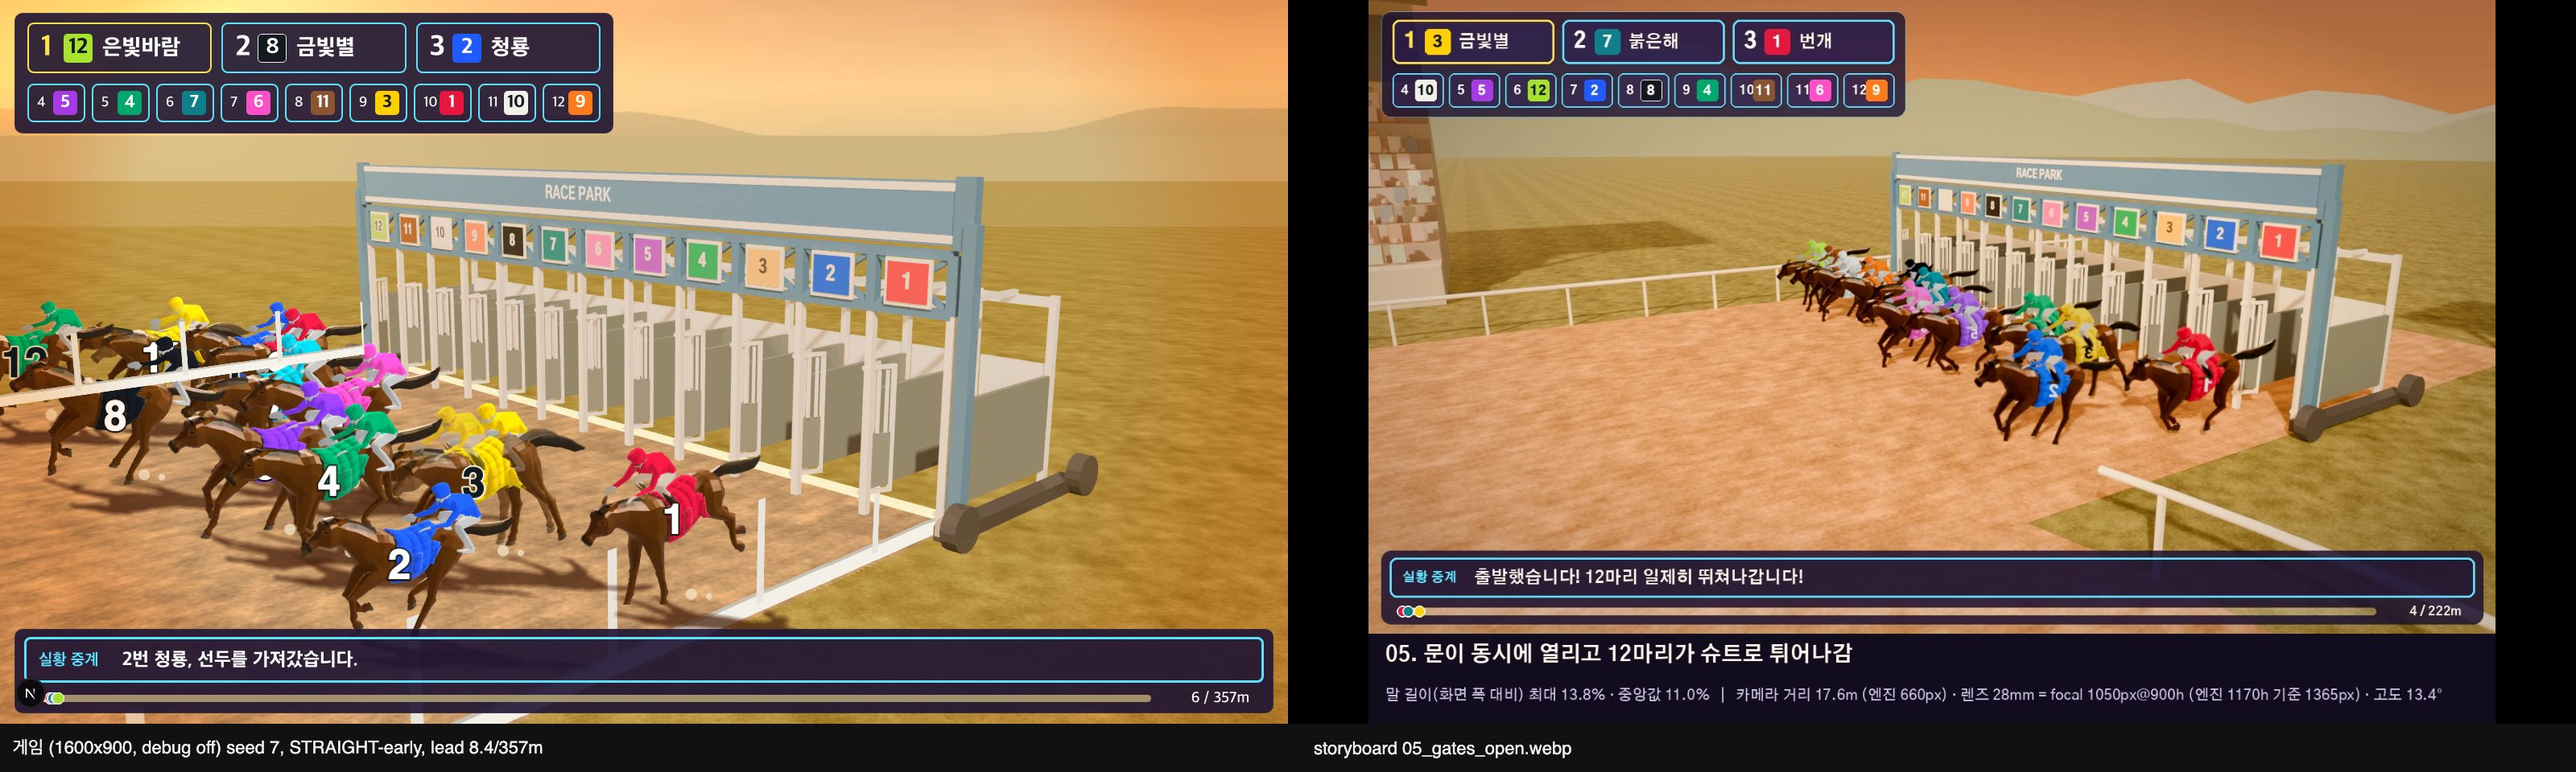
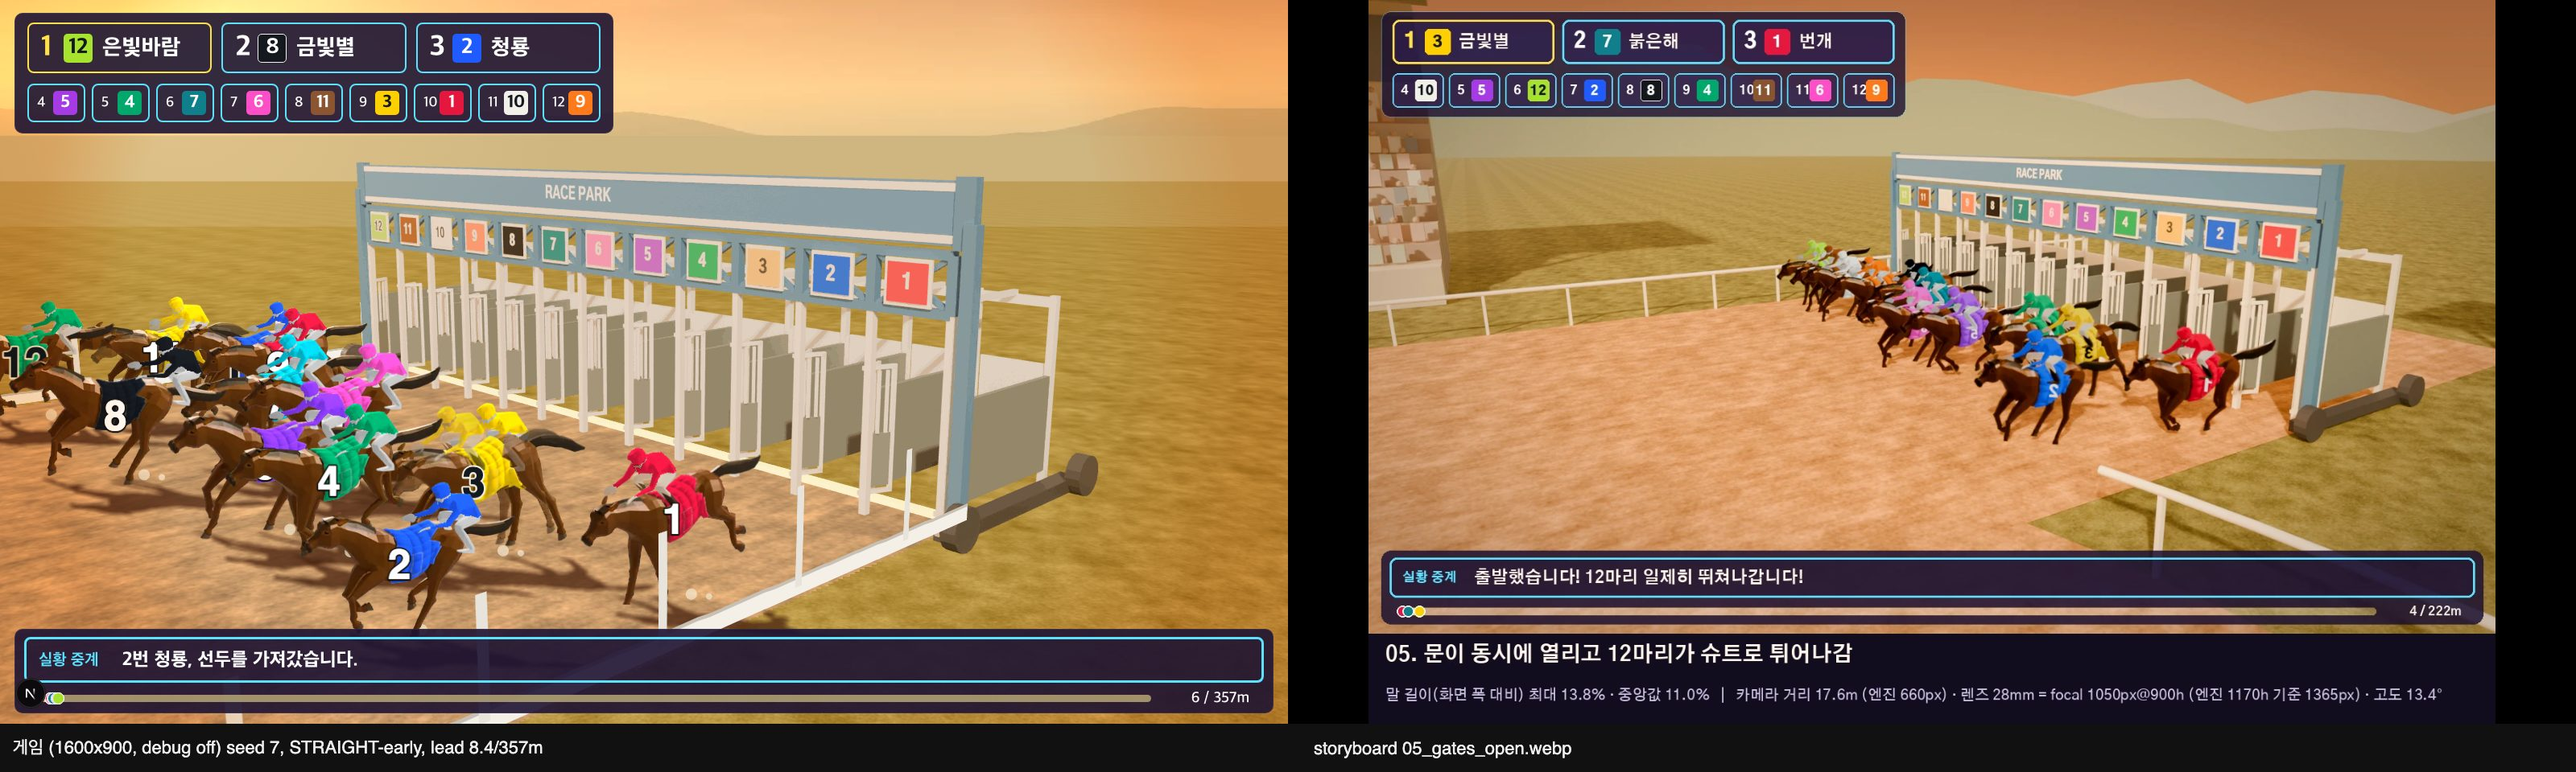
fix(rails): 슈트 합류부 코너 레일 제거, 말 뒤 펜스가 말 위에 그려지는 문제
- 서쪽 코너 바깥 레일이 슈트를 가로지르던 구간을 끊고, 슈트 안쪽 레일은 두 레일이 만나는 지점(chuteMergeX)부터 시작
- 레일 앞뒤를 반경(안쪽=뒤, 바깥=앞) 고정에서 세그먼트별 판정(railSegmentInFront)으로: 카메라와 말 사이에 있는 레일만 말 위에
- 테스트: 어느 레인도 레일을 가로지르지 않음, 합류부 슈트 안에 레일 없음, 카메라 위치별 앞뒤 판정
- taskA 캡처 갱신

diff --git a/game/trackRenderer.ts b/game/trackRenderer.ts
@@ -12,17 +12,16 @@ import type { Rect } from "./stage";
 import { sceneryFaces } from "./scenery";
 import { finishGoalX, presentationOnRadius, type Camera } from "./track";
 import {
-  chutePolyline,
   farRailRadius,
   finishCheckerQuad,
   groundUv,
   isDirt,
-  nearRailRadius,
-  ovalPolyline,
   projectHeight,
   propSpriteAccepted,
   propStripAccepted,
   mainStandLine,
+  railLines,
+  railSegmentInFront,
   startLineQuad,
   unprojectCell,
   type Vec2,
@@ -37,9 +36,9 @@ const DEPTH = {
   stands: 33,
   scenery: 34,
   checker: 35,
-  farRail: 40,
+  backRail: 40,
   props: 55,
-  nearRail: 3500,
+  frontRail: 3500,
 } as const;
 
 const GROUND_CELL = 48;
@@ -89,8 +88,8 @@ export function createTrackRenderer(scene: Phaser.Scene) {
   const turf = makeMesh(scene, fieldKey, DEPTH.turf);
   const dirt = makeMesh(scene, "ground-dirt", DEPTH.dirt);
   const fog = scene.add.graphics().setDepth(DEPTH.fog);
-  const farRail = makeMesh(scene, "rail-segment", DEPTH.farRail);
-  const nearRail = makeMesh(scene, "rail-segment", DEPTH.nearRail);
+  const backRail = makeMesh(scene, "rail-segment", DEPTH.backRail);
+  const frontRail = makeMesh(scene, "rail-segment", DEPTH.frontRail);
   const stands = makeMesh(scene, "stands-strip", DEPTH.stands);
   stands.mesh.setAlpha(1).setBlendMode(Phaser.BlendModes.NORMAL);
   const scenery = scene.add.graphics().setDepth(DEPTH.scenery);
@@ -98,10 +97,7 @@ export function createTrackRenderer(scene: Phaser.Scene) {
   const checker = makeMesh(scene, "finish-checker", DEPTH.checker);
   const startLine = scene.add.graphics().setDepth(DEPTH.checker);
 
-  const farLoop = ovalPolyline(farRailRadius());
-  const nearLoop = ovalPolyline(nearRailRadius());
-  const farChute = chutePolyline(farRailRadius());
-  const nearChute = chutePolyline(nearRailRadius());
+  const rails = railLines();
   const postProgress = distancePostProgresses();
   const posts = postProgress.map(() =>
     scene.add.image(0, 0, "prop-distance").setOrigin(0.5, 1).setDepth(DEPTH.props).setVisible(false),
@@ -118,12 +114,12 @@ export function createTrackRenderer(scene: Phaser.Scene) {
     if (capBottom > area.y) skyCap.setPosition(area.x, area.y).setSize(area.width, capBottom - area.y);
     paintGround(camera, turf, dirt, area);
     paintFog(fog, camera, area, haze);
-    clearSlot(farRail);
-    clearSlot(nearRail);
-    paintVertical(farRail, farLoop, true, RAIL_IMAGE, 1, camera, null);
-    paintVertical(farRail, farChute, false, RAIL_IMAGE, 1, camera, null);
-    paintVertical(nearRail, nearLoop, true, RAIL_IMAGE, 1, camera, null);
-    paintVertical(nearRail, nearChute, false, RAIL_IMAGE, 1, camera, null);
+    clearSlot(backRail);
+    clearSlot(frontRail);
+    for (const rail of rails) {
+      paintVertical(backRail, rail.points, rail.closed, RAIL_IMAGE, 1, camera, null, (from, to) => !railSegmentInFront(rail.kind, from, to, camera));
+      paintVertical(frontRail, rail.points, rail.closed, RAIL_IMAGE, 1, camera, null, (from, to) => railSegmentInFront(rail.kind, from, to, camera));
+    }
 
     clearSlot(stands);
     scenery.clear();
@@ -353,6 +349,7 @@ function paintVertical(
   zScale: number,
   camera: Camera,
   face: "outward" | "inward" | null,
+  keep: (from: Vec2, to: Vec2) => boolean = () => true,
 ) {
   const above = (image.contact / image.pxPerM) * zScale * LOGICAL_PER_METER;
   const below = ((image.height - image.contact) / image.pxPerM) * zScale * LOGICAL_PER_METER;
@@ -364,7 +361,9 @@ function paintVertical(
     const to = points[(index + 1) % count];
     if (!from || !to) continue;
     const lengthM = Math.hypot(to.x - from.x, to.y - from.y) / LOGICAL_PER_METER;
-    emitVertical(slot, camera, from, to, traveled / image.periodM, (traveled + lengthM) / image.periodM, above, below, face);
+    if (keep(from, to)) {
+      emitVertical(slot, camera, from, to, traveled / image.periodM, (traveled + lengthM) / image.periodM, above, below, face);
+    }
     traveled += lengthM;
   }
 }

diff --git a/game/trackLayout.test.ts b/game/trackLayout.test.ts
@@ -1,5 +1,6 @@
 import { describe, expect, test } from "vitest";
 import { farRailRadius, nearRailRadius } from "./artScale";
+import { chuteMergeX, railLines, railSegmentInFront } from "./trackArt";
 import {
   CHUTE,
   CHUTE_M,
@@ -85,5 +86,74 @@ describe("closed lap", () => {
     expect(home.y).toBeGreaterThan(0);
     expect(home.x).toBeCloseTo(finishGoalX(), 3);
     expect(home.tx).toBeCloseTo(1, 5);
+  });
+});
+
+type Point = { x: number; y: number };
+
+function crosses(a: Point, b: Point, c: Point, d: Point) {
+  const side = (p: Point, q: Point, r: Point) => (q.x - p.x) * (r.y - p.y) - (q.y - p.y) * (r.x - p.x);
+  return side(a, b, c) * side(a, b, d) < 0 && side(c, d, a) * side(c, d, b) < 0;
+}
+
+function railSegments() {
+  return railLines().flatMap((rail) => {
+    const count = rail.closed ? rail.points.length : rail.points.length - 1;
+    return Array.from({ length: count }, (_, index) => ({
+      kind: rail.kind,
+      from: rail.points[index]!,
+      to: rail.points[(index + 1) % rail.points.length]!,
+    }));
+  });
+}
+
+describe("rails", () => {
+  test("no lane crosses a rail from the gate, through the chute junction, to the finish", () => {
+    const segments = railSegments();
+    for (const lane of [1, 6, LANE_COUNT]) {
+      let previous = presentationLogical(0, lane);
+      for (let step = 1; step <= 600; step += 1) {
+        const next = presentationLogical(step / 600, lane);
+        const hit = segments.find((segment) => crosses(previous, next, segment.from, segment.to));
+        expect(hit, `lane ${lane} at progress ${(step / 600).toFixed(3)}`).toBeUndefined();
+        previous = next;
+      }
+    }
+  });
+
+  test("the chute opens onto the course where the west bend's outer rail meets the chute's inner rail", () => {
+    const mergeX = chuteMergeX();
+    expect(Math.hypot(mergeX + HALF, farRailRadius())).toBeCloseTo(nearRailRadius(), 6);
+    for (const { from } of railSegments()) {
+      const insideChute = from.x < -HALF && from.y > farRailRadius() + 1 && from.y < nearRailRadius() - 1;
+      expect(insideChute, `rail point (${from.x.toFixed(0)}, ${from.y.toFixed(0)}) inside the chute`).toBe(false);
+    }
+  });
+
+  test("a rail draws over the horses only when it stands between them and the camera", () => {
+    const camera = (groundY: number) => ({ groundX: 0, groundY, height: 400, pitch: 0.2, yaw: 0, focalLength: 1000 });
+    const homeOuter = { from: { x: -10, y: nearRailRadius() }, to: { x: 10, y: nearRailRadius() } };
+    const homeInner = { from: { x: -10, y: farRailRadius() }, to: { x: 10, y: farRailRadius() } };
+    const backOuter = { from: { x: 10, y: -nearRailRadius() }, to: { x: -10, y: -nearRailRadius() } };
+    const chuteOuter = { from: { x: -HALF - 10, y: nearRailRadius() }, to: { x: -HALF - 30, y: nearRailRadius() } };
+    const chuteInner = { from: { x: -HALF - 10, y: farRailRadius() }, to: { x: -HALF - 30, y: farRailRadius() } };
+    const inFront = (kind: "inner" | "outer", rail: { from: Point; to: Point }, at: number) =>
+      railSegmentInFront(kind, rail.from, rail.to, camera(at));
+
+    const outsideHome = nearRailRadius() * 2;
+    expect(inFront("outer", homeOuter, outsideHome)).toBe(true);
+    expect(inFront("inner", homeInner, outsideHome)).toBe(false);
+    expect(inFront("outer", backOuter, outsideHome)).toBe(false);
+    expect(inFront("outer", chuteOuter, outsideHome)).toBe(true);
+
+    expect(inFront("outer", homeOuter, 0)).toBe(false);
+    expect(inFront("inner", homeInner, 0)).toBe(true);
+    expect(inFront("outer", chuteOuter, 0)).toBe(false);
+    expect(inFront("inner", chuteInner, 0)).toBe(true);
+
+    const behindBack = -nearRailRadius() * 2;
+    expect(inFront("outer", backOuter, behindBack)).toBe(true);
+    expect(inFront("inner", homeInner, behindBack)).toBe(false);
+    expect(inFront("inner", chuteInner, behindBack)).toBe(false);
   });
 });

diff --git a/game/trackArt.ts b/game/trackArt.ts
@@ -154,21 +154,62 @@ export function propStripAccepted(
 }
 
 /** Closed oval, about one sample per meter. The first point is not repeated. */
-export function ovalPolyline(radius: number): Vec2[] {
+function ovalPolyline(radius: number): Vec2[] {
   const loopLength = STRAIGHT * 2 + Math.PI * radius * 2;
   const steps = Math.max(24, Math.round(loopLength / LOGICAL_PER_METER));
   return sampleLoopLogical(radius, steps).map((point) => ({ x: point.x, y: point.y }));
 }
 
-/** Open chute extending the home straight to the left, out to the gate. */
-export function chutePolyline(radius: number): Vec2[] {
+/** Straight rail along the chute, from `fromX` out to the gate. */
+function chuteLine(fromX: number, y: number): Vec2[] {
   const gateX = -HALF - CHUTE;
-  const points: Vec2[] = [{ x: -HALF, y: radius }];
-  const extra = Math.max(1, Math.ceil(CHUTE / LOGICAL_PER_METER));
-  for (let index = 1; index <= extra; index += 1) {
-    points.push({ x: -HALF + ((gateX + HALF) * index) / extra, y: radius });
-  }
-  return points;
+  const steps = Math.max(1, Math.ceil((fromX - gateX) / LOGICAL_PER_METER));
+  return Array.from({ length: steps + 1 }, (_, index) => ({ x: fromX + ((gateX - fromX) * index) / steps, y }));
+}
+
+export type RailKind = "inner" | "outer";
+export type RailLine = { kind: RailKind; points: Vec2[]; closed: boolean };
+
+/** Where the west bend's outer rail meets the chute's inner rail. Between here and the bend, the chute opens onto the course. */
+export function chuteMergeX() {
+  const inner = farRailRadius();
+  const outer = nearRailRadius();
+  return -HALF - Math.sqrt(outer * outer - inner * inner);
+}
+
+/**
+ * Every rail on the course. The outer oval rail stops where it would cross the chute, and the
+ * chute's inner rail starts at that same point, so the chute joins the home straight with no rail across it.
+ */
+export function railLines(): RailLine[] {
+  const inner = farRailRadius();
+  const outer = nearRailRadius();
+  const mergeX = chuteMergeX();
+  const outerLoop = ovalPolyline(outer).filter((point) => !(point.x < -HALF && point.y > inner));
+  return [
+    { kind: "inner", points: ovalPolyline(inner), closed: true },
+    { kind: "outer", points: [...outerLoop, { x: mergeX, y: inner }], closed: false },
+    { kind: "inner", points: chuteLine(mergeX, inner), closed: false },
+    { kind: "outer", points: chuteLine(-HALF, outer), closed: false },
+  ];
+}
+
+function cameraInInfield(camera: Camera) {
+  const inner = farRailRadius();
+  const alongSpine = Math.max(-HALF, Math.min(HALF, camera.groundX));
+  if (Math.hypot(camera.groundX - alongSpine, camera.groundY) < inner) return true;
+  return camera.groundX < -HALF && Math.abs(camera.groundY) < inner;
+}
+
+/** True when this rail segment stands between the camera and the horses, so it draws over them. */
+export function railSegmentInFront(kind: RailKind, from: Vec2, to: Vec2, camera: Camera) {
+  const mid = { x: (from.x + to.x) / 2, y: (from.y + to.y) / 2 };
+  const length = Math.hypot(to.x - from.x, to.y - from.y) || 1;
+  const spineX = Math.max(-HALF, Math.min(HALF, mid.x));
+  let normal = { x: (to.y - from.y) / length, y: -(to.x - from.x) / length };
+  if (normal.x * (mid.x - spineX) + normal.y * mid.y < 0) normal = { x: -normal.x, y: -normal.y };
+  const cameraOutside = (camera.groundX - mid.x) * normal.x + (camera.groundY - mid.y) * normal.y > 0;
+  return kind === "outer" ? cameraOutside : !cameraOutside && cameraInInfield(camera);
 }
 
 export function offsetAlong(points: readonly Vec2[], direction: Vec2, meters: number): Vec2[] {
